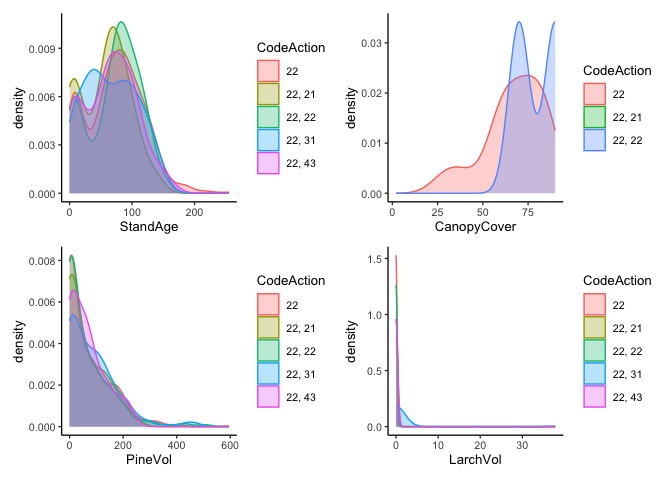
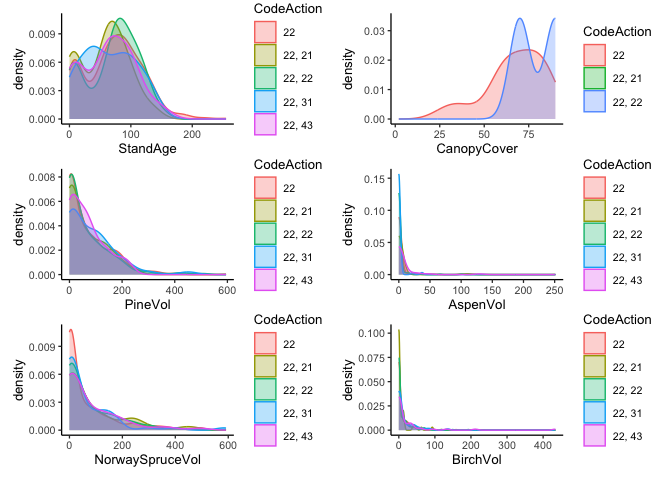
add exploration of climate data

Changed region(s): [[0.0, 0.0, 0.9688, 0.9688], [0.6562, 0.9375, 0.6875, 0.9688]]

diff --git a/code/exploration/2023-05-16_find-treatment-groups.md b/code/exploration/2023-05-16_find-treatment-groups.md
@@ -1,7 +1,7 @@
 Find treatment groups
 ================
 eleanorjackson
-17 May, 2023
+19 May, 2023
 
 We need to identify treatment and control groups from the Swedish NFI
 data. For example, thinned vs non-thinned stands. Ideally identify
@@ -246,11 +246,13 @@ filtered_plots %>%
     ## Joining with `by = join_by(ID)`
 
 ``` r
-var_list <- list("StandAge", "CanopyCover", "PineVol", "LarchVol")
+var_list <- list("StandAge", "CanopyCover", "PineVol", "AspenVol",
+                 "NorwaySpruceVol", "BirchVol")
 
 plot_list <- lapply(var_list, plot_man_hist, data = plots_hist_data)
 
-patchwork::wrap_plots(plot_list)
+patchwork::wrap_plots(plot_list) + 
+  patchwork::plot_layout(ncol = 2)
 ```
 
     ## Warning: Removed 847 rows containing non-finite values (`stat_density()`).
@@ -313,11 +315,66 @@ plot_man_thin <- function(data, plot_var) {
   geom_density(alpha = 0.3)
 }
 
-plot_list <- lapply(var_list, plot_man_thin, data = thin_no_thin)
+var_list_2 <- list("StandAge", "StandHeight", "CanopyCover", "PineVol", 
+                 "NorwaySpruceVol", "BirchVol", "Cover_Vaccinium vitis-idaea", 
+                 "Cover_Vaccinium myrtillus")
 
-patchwork::wrap_plots(plot_list)
+plot_list_2 <- lapply(var_list_2, plot_man_thin, data = thin_no_thin)
+
+patchwork::wrap_plots(plot_list_2) + 
+  patchwork::plot_layout(guides = 'collect')
 ```
 
     ## Warning: Removed 566 rows containing non-finite values (`stat_density()`).
 
+    ## Warning: Removed 28 rows containing non-finite values (`stat_density()`).
+
+    ## Warning: Removed 92 rows containing non-finite values (`stat_density()`).
+
 ![](figures/2023-05-16_find-treatment-groups/unnamed-chunk-13-1.png)<!-- -->
+
+## Climate data
+
+Climate data is by month so I’ll take an average temp and precipitation
+per plot per year.
+
+``` r
+climate_data %>% 
+  group_by(ID, year) %>% 
+  summarise(avg_temp = mean(Temperature),
+            avg_precip = mean(Precipitation)) %>% 
+  ungroup() %>% 
+  rename(Year = year) %>% 
+  inner_join(thin_no_thin, by = c("ID", "Year")) -> thin_no_thin_cl
+```
+
+    ## `summarise()` has grouped output by 'ID'. You can override using the `.groups`
+    ## argument.
+
+First looking at temperature
+
+``` r
+ggplot(thin_no_thin_cl, aes(x = avg_temp, y = `Cover_Vaccinium myrtillus`, 
+                            colour = thinned)) +
+  geom_point(alpha = 0.7) +
+  facet_grid(~thinned)
+```
+
+    ## Warning: Removed 37 rows containing missing values (`geom_point()`).
+
+![](figures/2023-05-16_find-treatment-groups/unnamed-chunk-15-1.png)<!-- -->
+
+Now precipitation
+
+``` r
+ggplot(thin_no_thin_cl, aes(x = avg_precip, y = `Cover_Vaccinium myrtillus`, 
+                            colour = thinned)) +
+  geom_point(alpha = 0.7) +
+  facet_grid(~thinned)
+```
+
+    ## Warning: Removed 37 rows containing missing values (`geom_point()`).
+
+![](figures/2023-05-16_find-treatment-groups/unnamed-chunk-16-1.png)<!-- -->
+
+It feels like the no-thin sample size is too small to see any patterns..
